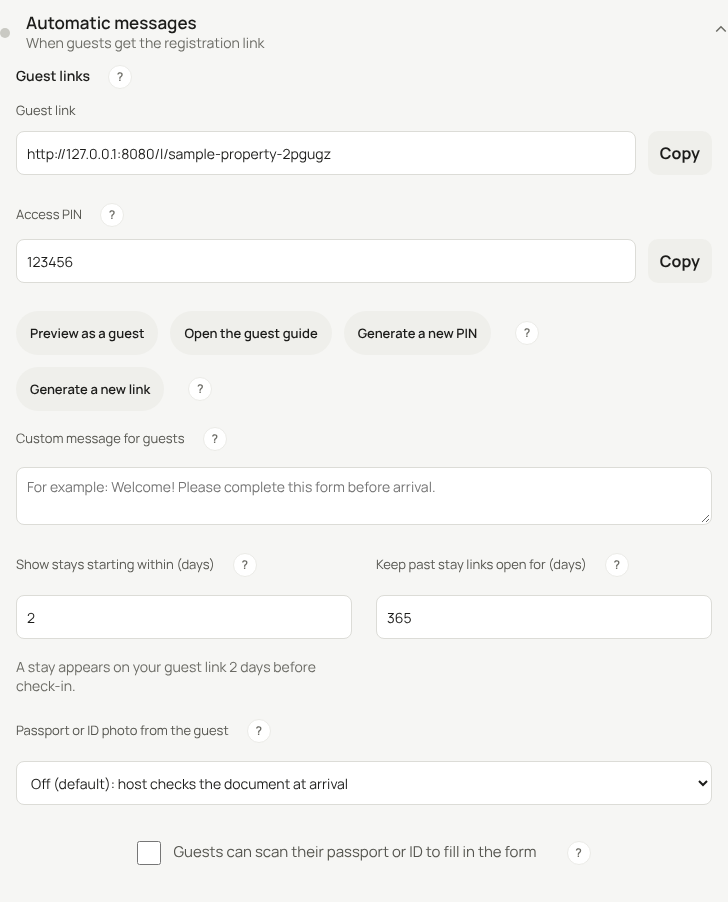
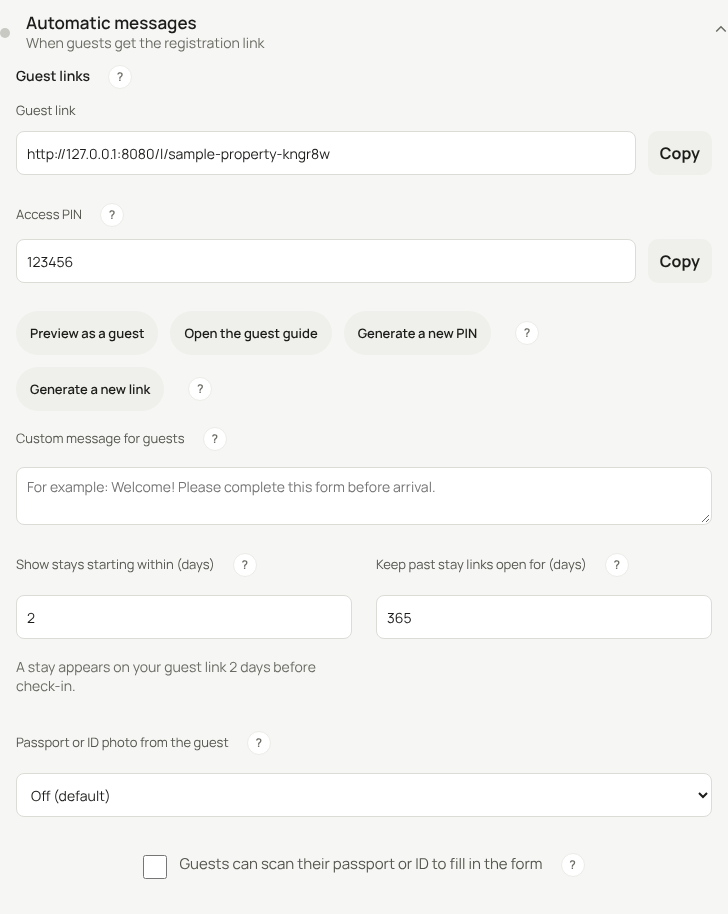
0951: report, screenshots after final fixes (status review)
Claude-Session: https://claude.ai/code/session_01Cjmb7QWLWsEcS87gQn8cYV

diff --git a/docs/tasks/0951-report.md b/docs/tasks/0951-report.md
@@ -40,3 +40,16 @@ Fixed: help-tip `?` moved inside the OCR `<label>` (lint `help-stranded` for `ti
 Lint still: 56 `help-stranded` (OCR `?` tip, 8 routes x 7 widths). The lint measures the tip against the label text span; with the tip inside the label it reports "on its own line" at 320 px, 41 px off. Not fixed.
 Screenshots (docs/tasks/screenshots-0951/): 390 viewed: Copy on input row, actions wrap to 3 rows, ? inline; select text second line clipped by the select height (real finding, not fixed). 768/1280 viewed earlier: note and passport label gap now 24 px.
 Next step: in app2.css, make the OCR tip not a lint-stranded element: move `help_tip('ocr_scan-help')` out of the `label` and right after the `<label>` in a `div.passport-scan-row` flex row whose label is `display:contents`-free, or give the span `display:inline` so the lint anchor is the text line; then the select `min-height` to fit two lines (`height:auto`), and rerun lint.
+
+## Update (fourth run): status review
+Status: review
+Gate: `test_layout_lint_browser.py`, `test_host_property_controls_browser.py`, `test_0833`, `test_0541`, `test_0531`, `test_calmer_forms`: 32 passed, 0 failed, 0 skipped. Lint findings: 0.
+Cache key: 20261104-0951i (keys g, h, i were used while fixing; manifest written, 49 files).
+Accident: a mistaken write emptied base.html in commit 46ee6c04; restored in c44f539e.
+Passport options shortened: EN "Off (default)" / "Required for foreign guests"; CS "Vypnuto (výchozí)" / "Povinné pro cizince"; VI "Tắt (mặc định)" / "Bắt buộc với khách nước ngoài". The long off-explanation is no longer visible; the hint explains the required option only (needs owner review).
+Screenshots (viewed, docs/tasks/screenshots-0951/):
+- 390: Link and PIN each one row with Copy; actions wrap to 3 rows; select shows "Off (default)" whole; ? after labels.
+- 768: links one column; two number fields side by side; note and passport label separated; checkbox row with ? aligned.
+- 1280: same as 768 with wider columns; actions in 2 rows.
+Checklist (design-system): lint green, 0 skipped, copy/Copy on one row, equal heights, 44 px touch targets at 390. Not reviewed: full design-system checklist line by line.
+Next step: owner review of the shortened passport option text.
